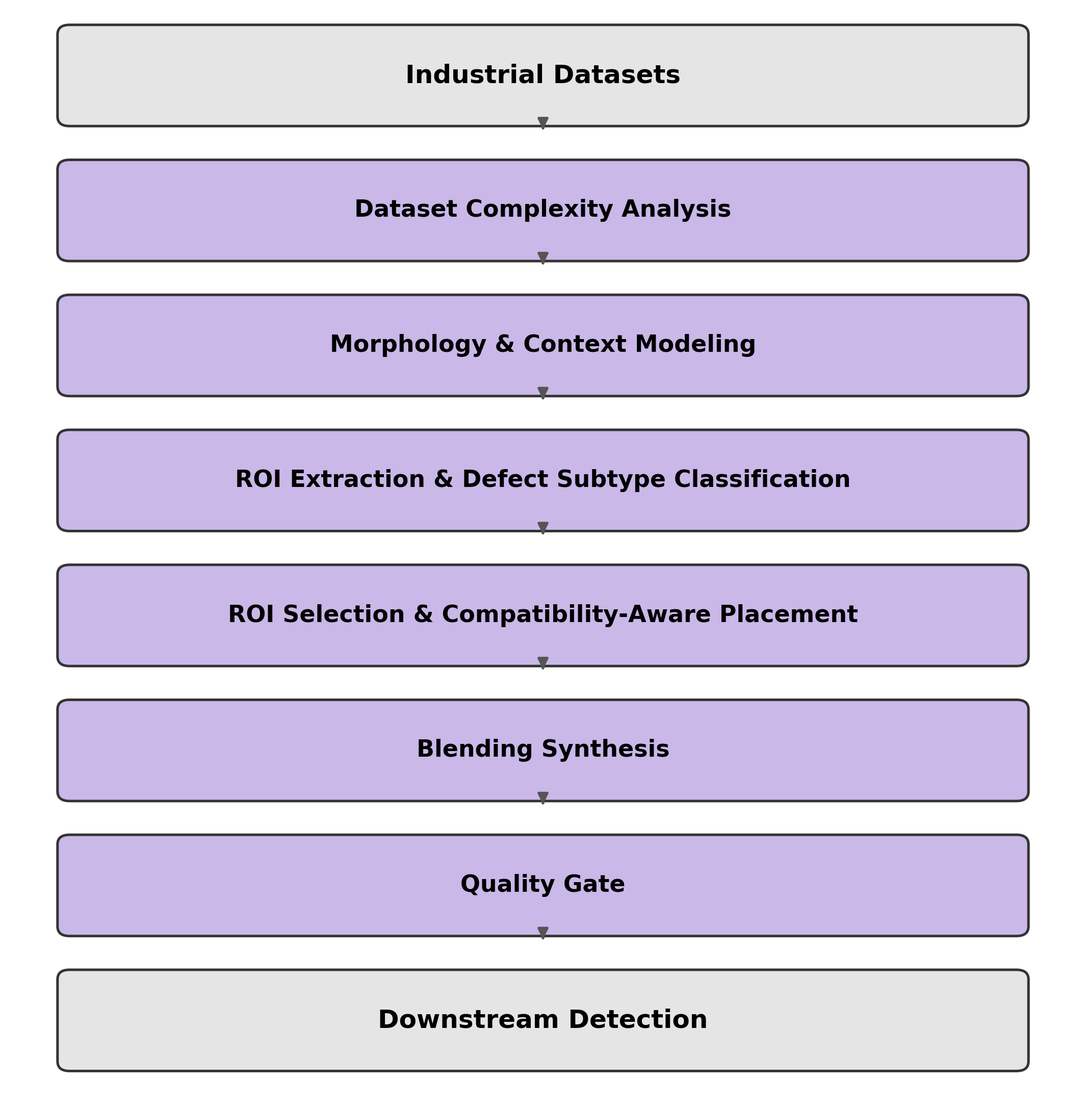
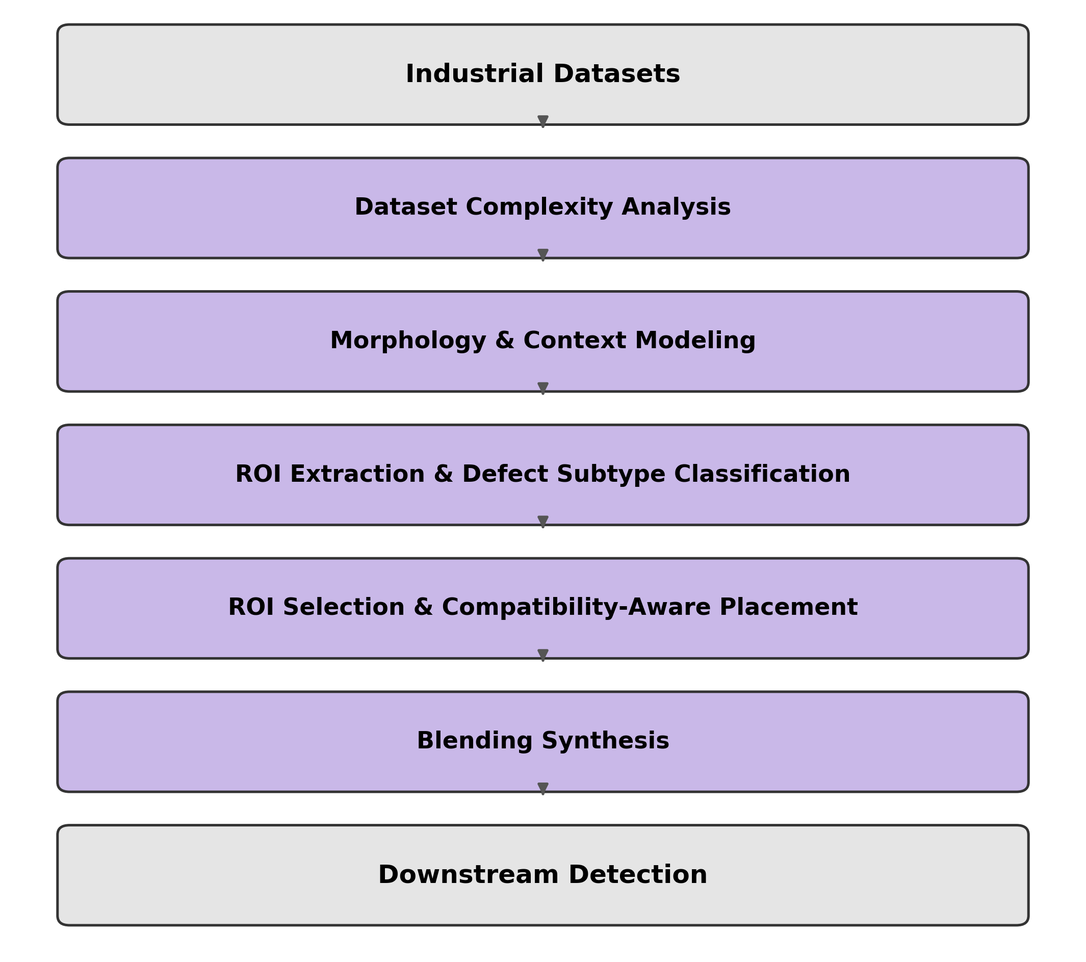
roi score 수치 제거 개선

diff --git a/AROMA연구분석/Article/figure/script/[figure 3.2] aroma_pipeline.py b/AROMA연구분석/Article/figure/script/[figure 3.2] aroma_pipeline.py
@@ -4,7 +4,7 @@ Figure 2 -- AROMA Pipeline Architecture (regenerated)
 
 Static architecture/data-flow diagram (no data file dependency).
 Stage structure aligned 1:1 to the §3.2 subsections of the current
-section3_2.txt (3.2.1 .. 3.2.6); dataset roster from dataset_config.json
+section3_2.txt (3.2.1 .. 3.2.5); dataset roster from dataset_config.json
 (ground truth): 5 datasets (severstal, mvtec_leather, mtd, aitex,
 kolektor).
 
@@ -34,7 +34,8 @@ from matplotlib.patches import FancyBboxPatch
 OUT_DIR = r"D:\project\aroma\AROMA연구분석\Article\figure\image"
 OUT_PATH = os.path.join(OUT_DIR, "[figure 3.2] aroma_pipeline.png")
 
-# title-only -- aligned to §3.2.1-3.2.6 (see pipeline_spec.md for the
+# title-only -- aligned to §3.2.1-3.2.5; Quality Gate stage removed
+# 2026-08-21 with the deletion of §3.2.6 (see pipeline_spec.md for the
 # one-line description of each stage; kept out of the diagram itself)
 STAGES = [
     "Dataset Complexity Analysis",
@@ -42,7 +43,6 @@ STAGES = [
     "ROI Extraction & Defect Subtype Classification",
     "ROI Selection & Compatibility-Aware Placement",
     "Blending Synthesis",
-    "Quality Gate",
 ]
 
 INPUT_TITLE = "Industrial Datasets"

diff --git a/AROMA연구분석/Article/figure/script/[figure 3.2.4 1] roi_selection_flow.py b/AROMA연구분석/Article/figure/script/[figure 3.2.4 1] roi_selection_flow.py
@@ -57,7 +57,7 @@ arrow(4.0, 25.2, 2.5, 24.1)                     # defect -> cluster
 arrow(6.0, 25.2, 7.5, 24.1, color=BLUE)         # defect -> context cell
 
 box(2.4, 19.6, 5.2, 1.7,
-    "ROI_score = 0.6·ctx_prior + 0.4·morph_prior\n= 0.6·1.00 + 0.4·0.24 = 0.70",
+    "ROI_score = ctx_prior + morph_prior\n= 1.00 + 0.24 = 1.24",
     BLUE, "white", fs=9.2)
 arrow(2.5, 22.4, 4.3, 21.3, color=GREY)
 arrow(7.5, 22.4, 5.7, 21.3, color=BLUE)
@@ -94,7 +94,7 @@ arrow(cx, 8.3, cx, 7.4, color=STAR)
 # legend
 ax.text(0.1, 4.6, "blue = compatibility signal read from matrix_symmetric (core placement signal)",
         fontsize=7.8, color=BLUE)
-ax.text(0.1, 4.1, "grey = morphology-cluster prevalence prior (mild weighting)",
+ax.text(0.1, 4.1, "grey = morphology-cluster prevalence prior (population regularizer)",
         fontsize=7.8, color=GREY)
 ax.text(0.1, 3.6, "stage-1 values: real Severstal linear-scratch example; stages 2–3 symbolic",
         fontsize=7.8, color="#444444")

diff --git a/AROMA연구분석/Article/figure/script/[figure 3.2.4 1] roi_selection_flow_mod.py b/AROMA연구분석/Article/figure/script/[figure 3.2.4 1] roi_selection_flow_mod.py
@@ -49,7 +49,7 @@ arrow(6.0, 24.0, 7.5, 22.9, color=BLUE)         # defect -> bg cell
 
 # 3. ROI_score
 box(2.4, 18.4, 5.2, 1.7,
-    "ROI_score(k, c) =\n0.6·ctx_prior(k, c) + 0.4·morph_prior(k)",
+    "ROI_score(k, c) =\nctx_prior(k, c) + morph_prior(k)",
     BLUE, "white", fs=9.2)
 arrow(2.5, 21.2, 4.3, 20.1, color=GREY)         # cluster -> score
 arrow(7.5, 21.2, 5.7, 20.1, color=BLUE)         # bg cell -> score

diff --git a/AROMA연구분석/Article/report1/reviewer3_response.md b/AROMA연구분석/Article/report1/reviewer3_response.md
@@ -14,13 +14,13 @@ We appreciate the opportunity to address this directly, because the two tables t
 
 **(1) The cited Table 4 rule no longer exists.** The fixed cascade quoted by the reviewer ("linear_scratch: Linearity > 0.9 AND AspectRatio > 5") has been replaced: subtype boundaries are now derived per dataset from the observed morphology distributions as tertile boundaries, with the derived values reported in Table 4b. These values vary by up to a factor of 4.5 across the five datasets (aspect-ratio boundary 3.62 on MTD vs. 16.43 on AITeX) — variation that the old fixed rule would have absorbed silently, which is exactly why it was removed. A homogeneity safeguard additionally reverts a feature to a conservative default when its middle tertile is degenerate (below 15% of the feature's standard deviation), so a dataset that is genuinely homogeneous in one feature is not split on measurement noise.
 
-**(2) Percentile rules are not hand-set constants.** A rule such as "LocalVariance ≤ P25" (Table 3) contains no hardcoded threshold: P25 denotes a position in each dataset's own feature distribution, so the operative numerical threshold is recomputed for every dataset and differs across them. What is fixed is only the partition convention (quartiles for background categories, tertiles for context cells and subtypes) — dataset-agnostic machinery, analogous to choosing a histogram binning, not domain knowledge. We verified this convention is not a hidden tuning knob: perturbing the tertile boundary positions by ±5 percentile points changes final ROI selections proportionally and without instability (top-K overlap 64–98% across all perturbations and datasets; new §4.5).
+**(2) Percentile rules are not hand-set constants.** A rule such as "LocalVariance ≤ P25" (Table 3) contains no hardcoded threshold: P25 denotes a position in each dataset's own feature distribution, so the operative numerical threshold is recomputed for every dataset and differs across them. What is fixed is only the partition convention (quartiles for background categories, tertiles for context cells and subtypes) — dataset-agnostic machinery, analogous to choosing a histogram binning, not domain knowledge. We verified this convention is not a hidden tuning knob: perturbing the tertile boundary positions by ±5 percentile points, individually and jointly, relabels only 3.1–14.5% of defects — proportional to the distribution mass moved by the shift, with no instability cliff (new §4.5, Table 12).
 
-**(3) What "data-driven" claims — and what it replaces in CASDA.** CASDA's compatibility matrix encodes domain semantics by hand: an engineer asserts which defect types belong on which background types. AROMA derives exactly this object from patch-level co-occurrence statistics (§3.2.4), and its categorical structure from per-dataset estimation (BIC-selected Gaussian-mixture morphology clusters; tertile context cells). The revised manuscript states the claim at this scope: applying AROMA to a new dataset requires no re-engineering, while the remaining dataset-independent design constants (the scoring weights of Eq. 2) are explicitly acknowledged as fixed choices whose robustness is demonstrated by sensitivity analysis (±0.1 weight perturbations retain 95.5–100% of selections). We have also separated the two roles the submitted version conflated: the named categories of Tables 3–4 serve interpretation and reporting; placement decisions operate on the estimated clusters and cells.
+**(3) What "data-driven" claims — and what it replaces in CASDA.** CASDA's compatibility matrix encodes domain semantics by hand: an engineer asserts which defect types belong on which background types. AROMA derives exactly this object from patch-level co-occurrence statistics (§3.2.4), and its categorical structure from per-dataset estimation (BIC-selected Gaussian-mixture morphology clusters; tertile context cells). The revised manuscript can now state the claim without exception at the placement level: the scoring weights of Eq. (2) — the one remaining hand-set constant pair in the placement path — have been removed (the score is the unweighted sum of two data-derived priors; see our response to Comment 3), so every quantity entering a placement decision is either estimated from the dataset or an unweighted combination of such estimates. We have also separated the two roles the submitted version conflated: the named categories of Tables 3–4 serve interpretation and reporting; placement decisions operate on the estimated clusters and cells.
 
 **(4) Empirical confirmation.** The new ablation study (§4.4) shows the downstream gain is produced by the estimated compatibility chain itself: replacing any stage with its random counterpart drops mAP below even uniform-random augmentation, confirming that the measured benefit comes from the data-derived structure rather than from any fixed constant.
 
-**Manuscript changes:** §3.2.2–3.2.3 (per-dataset percentile derivation, Table 4b, homogeneity safeguard); Eq. (2) fixed-design-choice statement (§3.2.4); new sensitivity subsection (§4.5: boundary perturbation and weight simplex); new ablation study (§4.4); claim-scope wording revised throughout.
+**Manuscript changes:** §3.2.2–3.2.3 (per-dataset percentile derivation, Table 4b, homogeneity safeguard); Eq. (2) rewritten as an unweighted sum (§3.2.4); new sensitivity subsection (§4.5: boundary perturbation); new ablation study (§4.4); claim-scope wording revised throughout.
 
 ---
 
@@ -48,15 +48,15 @@ The reviewer's reading of the submitted numbers was fair, and this comment promp
 
 **Response.**
 
-**(1) The quoted sentence was wrong and has been removed.** The reviewer is right that "the ranking introduces no hand-set constants" contradicted the visible weights. The revised §3.2.4 states the opposite, explicitly: the weights are fixed, dataset-independent design choices encoding a priority order (context > morphology), together with the rationale for that order — the context term is the only one that carries the placement signal and the only one that varies across a crop's candidate contexts, while the cluster prior acts as a population regularizer.
+**(1) The weights have been removed, resolving the contradiction at its source.** The reviewer is right on both counts: the sentence "the ranking introduces no hand-set constants" contradicted the visible 0.6/0.4 weights, and those weights were themselves hand-set. In the revision we removed the weights rather than the claim: Eq. (2) is now the unweighted sum ROI_score = ctx_prior + morph_prior of two data-derived, normalized quantities (a row-normalized compatibility prior and a population-share cluster prior), so the ranking genuinely contains no coefficients. The removal is enabled by the restructured placement pipeline of the revised §3.2.4: the original weighting existed to force the context term to dominate a single composite score, but in the revised three-stage design the compatibility model is consulted directly at every placement stage (ROI selection, background assignment, site resolution), so no priority weighting inside the selection score is needed.
 
-**(2) Empirical justification is now provided — for robustness, not optimality.** We do not claim these weights are optimal, and for a rank-based top-K selection they do not need to be: what must be shown is that the outcome does not hinge on the specific values. The new sensitivity analysis (§4.5, Table 12) sweeps the ctx:morph ratio exhaustively on all five datasets: every ratio from 0.1/0.9 to 0.9/0.1 retains 87.5–100% of the top-K selection — no value in that range is "optimal" because none is consequential. The only consequential change is eliminating a term entirely, and asymmetrically so: a context-only score still retains 83.5–100%, whereas a morphology-only score collapses on Kolektor (37.5% retention) and degrades sharply on MVTec Leather (61.0%), identifying the context term as the load-bearing component. The weights therefore act as a priority ordering over participating terms, not as a tuned optimum. As a scale reference, the ablation of §4.4 shows that even replacing the entire scored selection with a uniform-random one shifts mAP by 3.8 pp; the selection differences induced by alternative weight ratios (0–12.5% of membership) are far smaller in extent.
+**(2) The demand for justification is redirected to what the revised equation actually contains.** With the weights removed, there is no coefficient left whose optimality could or should be proven; what requires justification is the participation of each term. That justification is empirical: the ablation of §4.4 removes the compatibility-based ROI selection and measures a 3.8 pp mAP drop on Severstal, consistent across all three seeds, identifying the context term as the load-bearing component of the ranking, while the cluster prior's role — keeping the selected pool's cluster mix faithful to the real defect population — is structural and carries no tunable freedom.
 
 **(3) Ablation study is now provided.** The new §4.4 ablates the placement pipeline stage by stage (ROI selection, background assignment, site resolution) with downstream mAP as the endpoint: the full pipeline (0.5197) outperforms every leave-one-out variant, and removing the compatibility-based ROI selection causes the largest drop (−3.80 pp, consistent across all three seeds). This complements the sensitivity analysis: the mechanism's presence is what carries the gain; the coefficient values are non-critical.
 
 **(4) Equation (4) has been removed.** We agree these weights were arbitrary in the sense that matters: they were inherited unchanged from our earlier CASDA pipeline rather than derived. In the revision we deleted the quality-gate subsection presenting Eq. (4) — its fixed weights and absolute threshold — instead of defending it. The gate itself is a coarse admissibility pre-filter that discards unusable patches before any placement decision and is applied identically to the AROMA and random arms, so it is common-mode with respect to every comparison in the paper, operates upstream of and independently from the placement scoring of Eq. (2), and is not part of the claimed contribution. No numbered equation followed Eq. (4), so the numbering of Equations (1)–(3) is unchanged.
 
-**Manuscript changes:** offending sentence removed, with a fixed-design-choice statement and priority-order rationale added at Eq. (2) (§3.2.4); new sensitivity subsection (§4.5); new ablation study (§4.4, Table 11); §3.2.6 (Quality Gate, Eq. (4)) removed.
+**Manuscript changes:** Eq. (2) rewritten as the unweighted sum ctx_prior + morph_prior, with rationale, at §3.2.4; new ablation study (§4.4, Table 11); §3.2.6 (Quality Gate, Eq. (4)) removed.
 
 ---
 

diff --git a/AROMA연구분석/Article/report1/reviewer2_response.md b/AROMA연구분석/Article/report1/reviewer2_response.md
@@ -14,13 +14,13 @@ We appreciate the opportunity to clarify the scope of this claim, and we have sh
 
 **(1) What "free of manual tuning" refers to.** The claim concerns the dataset-facing parameters — everything that must adapt when the method is applied to a new dataset. In the revised manuscript, all of these are derived from each dataset's own statistics rather than set by hand: morphology clusters are selected by BIC over a Gaussian mixture, context cells are formed by per-feature tertile (P33/P66) binning, background categories use percentile boundaries (e.g., P25) of the profiled features, and defect-subtype thresholds are derived from the observed per-dataset morphology distributions (Table 4b), varying by up to a factor of 4.5 across datasets. None of these involve manual tuning: applying AROMA to a new dataset re-derives them automatically, with no re-engineering.
 
-**(2) The weights in Equation (2) are dataset-independent structural coefficients, not tuning parameters.** They are set once, encode a fixed priority order (context > morphology), and are applied unchanged to all five datasets — no per-dataset adjustment exists anywhere in the pipeline. To verify that these coefficients do not function as hidden tuning knobs, we added a weight-ratio sensitivity analysis on all five datasets (new §4.5): every ctx:morph ratio from 0.1/0.9 to 0.9/0.1 retains 87.5–100% of the top-K selection, and the only consequential change is eliminating a term entirely (a morphology-only score falls to 37.5% retention on Kolektor). The ranking therefore depends on which terms participate, not on the specific coefficient values — the opposite of a manually tuned optimum. As a scale reference, the ablation of §4.4 shows that even replacing the entire scored selection with a uniform-random one shifts mAP by 3.8 pp; the selection differences induced by alternative weight ratios (0–12.5% of membership) are far smaller in extent.
+**(2) The weights in Equation (2) have been removed.** The reviewer is right that the 0.6/0.4 coefficients were hand-set constants, and rather than defending them we eliminated them: in the revised manuscript, Eq. (2) is the unweighted sum ROI_score = ctx_prior + morph_prior of two data-derived, normalized quantities, so the ranking no longer contains any coefficient of its own. This removal is enabled by the restructured placement pipeline of §3.2.4: the original weighting existed to force the context term to dominate a single composite score, but in the revised three-stage design the compatibility model is consulted directly at all three placement stages (ROI selection, background assignment, site resolution), so the context signal no longer needs to be privileged inside the selection score. What remains to be justified is not a coefficient value but the participation of each term, and that is established empirically by the ablation of §4.4: removing the compatibility-based ROI selection costs 3.8 pp of mAP on Severstal, consistently across seeds, identifying the context term as the load-bearing component of the ranking.
 
 **(3) Equation (4) has been removed, and the quality criterion is disclosed as inherited.** In revising the quality-gating description we deleted the subsection that presented Eq. (4) — its fixed component weights and absolute acceptance threshold — rather than defending it. The underlying gate is a coarse admissibility pre-filter inherited unchanged from our earlier CASDA pipeline; it discards unusable patches *before* any placement decision and is applied identically to the AROMA and random arms, so it is common-mode with respect to every comparison in the paper, operates upstream of and independently from the placement scoring of Eq. (2), and is not part of the claimed data-driven contribution. No numbered equation followed Eq. (4), so the numbering of Equations (1)–(3) is unchanged.
 
-The revised text (§3.2.2–3.2.4) now states this distinction explicitly: per-dataset parameters are data-derived, while the Eq. (2) weights are fixed, dataset-independent design constants whose robustness is demonstrated empirically.
+The revised text (§3.2.2–3.2.4) now makes the claim exact: every quantity entering the placement decision is either derived from the dataset's own statistics or an unweighted combination of such quantities; the manually set coefficients the reviewer identified (Eq. (2) weights, Eq. (4) weights) have both been removed from the method.
 
-**Manuscript changes:** explicit fixed-design-choice statement and priority-order rationale at Eq. (2) (§3.2.4); §3.2.6 (Quality Gate, Eq. (4)) removed; new sensitivity subsection (§4.5); data-derived partition descriptions in §3.2.2–3.2.3.
+**Manuscript changes:** Eq. (2) rewritten as the unweighted sum ctx_prior + morph_prior, with the rationale at §3.2.4; §3.2.6 (Quality Gate, Eq. (4)) removed; new sensitivity subsection (§4.5); data-derived partition descriptions in §3.2.2–3.2.3.
 
 ---
 
@@ -30,13 +30,13 @@ The revised text (§3.2.2–3.2.4) now states this distinction explicitly: per-d
 
 **Response.**
 
-Following this recommendation, we supplemented the evaluation with **YOLOv11n**, a recent mainstream detector, under the identical three-arm (Baseline / Random / AROMA), three-seed protocol on Severstal and AITeX — the heterogeneous-surface datasets where the placement effect is the operative question (new Table X, §X).
+Following this recommendation, we supplemented the evaluation with **YOLOv11n**, a recent mainstream detector, under the identical three-arm (Baseline / Random / AROMA), three-seed protocol on Severstal and AITeX — the heterogeneous-surface datasets where the placement effect is the operative question (new Tables 13–14, §4.3).
 
-The results reproduce the ordering observed with YOLOv8n: **[AROMA > Random > Baseline on both datasets; numbers TBD after E4]**. This indicates that the measured placement effect is a property of the synthesized data rather than of a particular detector architecture.
+The results reproduce the ordering observed with YOLOv8n: on Severstal, AROMA 0.5080 > Random 0.4932 > Baseline 0.4864 mAP@0.5, with AROMA outperforming Random in all three seeds and the gain again concentrated in the minority classes (c2 +2.10 pp, c4 +4.81 pp vs. Random); on AITeX, both augmentation arms clearly exceed Baseline (AROMA 0.4064, Random 0.3967 vs. Baseline 0.3637). This indicates that the measured placement effect is a property of the synthesized data rather than of a particular detector architecture.
 
 Two considerations guided the scope of this supplement. First, the paper's claim is about the *data-side* placement policy, and the detector is only the measurement instrument; demonstrating that the effect survives a change of instrument on two representative datasets addresses the generality question directly. Second, YOLOv8n is retained as the primary detector throughout the paper for comparability with prior industrial augmentation studies and with our earlier controlled experiments, which were all conducted under that architecture.
 
-**Manuscript changes:** new detector-generality table and subsection (numbers to be inserted after the supplementary YOLOv11n runs; placeholder pending E4).
+**Manuscript changes:** new detector-generality table and subsection (§4.3, Tables 13–14, "Cross-architecture validation (YOLO11n)").
 
 ---
 
@@ -52,9 +52,9 @@ We address this in three parts.
 
 **(2) Subtype labels do not gate placement.** The revised §3.2.2–3.2.4 separates the two roles that were conflated in the original text: placement decisions operate on the BIC-selected morphology clusters and tertile context cells, and the ROI ranking of Eq. (2) does not consume the subtype labels; the named categories serve interpretation and reporting. A perturbation of a subtype boundary therefore cannot alter which placements are generated.
 
-**(3) Threshold sensitivity analysis (new §4.5).** We nevertheless quantified the stability of the labels themselves: perturbing the percentile points defining the tertile boundaries by ±5 points (P33/P66 → 28–38 / 61–71) on all five datasets relabels 3.1–9.1% of defects for a single-boundary shift and 7.7–14.5% for a joint shift (Table 13) — in each case proportional to the distribution mass moved by the shift, with no amplification or instability cliff.
+**(3) Threshold sensitivity analysis (new §4.5).** We nevertheless quantified the stability of the labels themselves: perturbing the percentile points defining the tertile boundaries by ±5 points (P33/P66 → 28–38 / 61–71) on all five datasets relabels 3.1–9.1% of defects for a single-boundary shift and 7.7–14.5% for a joint shift (Table 12) — in each case proportional to the distribution mass moved by the shift, with no amplification or instability cliff.
 
-**Manuscript changes:** §3.2.3 (per-dataset percentile boundaries, Table 4b); new sensitivity subsection (§4.5) reporting the boundary-perturbation results alongside the weight-ratio analysis.
+**Manuscript changes:** §3.2.3 (per-dataset percentile boundaries, Table 4b); new sensitivity subsection (§4.5, Table 12) reporting the boundary-perturbation results.
 
 ---
 

diff --git a/.claude/.dev_note/aroma_report1_responses_20260821.md b/.claude/.dev_note/aroma_report1_responses_20260821.md
@@ -2,7 +2,16 @@
 
 ## (성격: 세션 기록 · **완료분 + 잔여 작업 목록**. 답변서는 완성, 실험 E4·figure·재정렬은 미착수)
 
-> **⚠ 최종 결정 A안 (2026-08-21 세션 말미) — Eq.2는 2-항 표기 유지**: 세션 중 Eq.2를 3-성분(0.5/0.3/0.2)으로 전환했다가 **최종적으로 제출본 2-항(0.6·ctx + 0.4·morph) 표기로 회귀** (사용자 결정: 수식 단순화 취지 유지, 수식 변경 가시성 리스크 회피). 이에 따라:
+> **🔴 최종 번복 B안 (2026-08-21 후속 세션) — 아래 A안을 대체. Eq.2 = 무가중 합, §4.5 sweep 제거**
+> R2-1·R3-3 공통 지적(0.6/0.4 hand-set constants)에 대해 **가중치 자체를 제거**하는 것으로 최종 결정:
+> - **Eq.2 = `ROI_score = ctx_prior + morph_prior` (상수항 없음)**. 논리: §3.2.4 3단계 재편으로 compat model이 선택·배경할당·위치해상 모두에서 직접 소비되므로 선택 점수 내 priority weighting 불필요. §3.2.4 정당화 문단 재작성(항 필요성은 §4.4 ablation 인용).
+> - **§4.5 가중치 sweep(구 Table 12) 통째 제거** — 방어할 상수가 없어 존재 이유 소멸. §4.5는 "Sensitivity of the Tertile Partition Boundaries"로 개제, tertile 섭동 표가 **Table 12** 승계. (아래 2b의 sweep 실측은 재심 대비 예비 데이터로 보존)
+> - **E4 완료 및 반영**: YOLO11n 3-seed 결과(`.claude/.etc/exp4v2/20260821/yolo11/exp4v2_results_{1,2,42}.json`, casda arm은 오수행으로 제외) → §4.3 말미 "Cross-architecture validation (YOLO11n)" 소절 신설. **Table 13**(Severstal, Table 8 형식 per-class) + **Table 14**(AITeX, Table 6 형식 mAP@0.5 단일 열). Severstal AROMA 3-seed 전승(+1.48pp, c2/c4 집중), AITeX comparable(+0.97pp, seed 분산 이내). R2-2 placeholder 실수치로 채움.
+> - 답변서 3건 모두 동기화: R1-1(2) "가중치 제거+tertile 민감도", R2-1(2)·R3-3(1,2) "removed rather than defended", R3-1(2) 인용 수치를 §4.5 실제 수치(3.1–14.5% relabel)로 정정.
+> - **잔존 리스크 갱신**: 논문 무가중 vs production 코드 0.5/0.3/0.2 불일치는 여전(형태는 다르나 동일 지뢰). sweep 실측("값 비민감·항 참여 민감")이 완화 근거로 유효.
+> - **잔여**: figure `[figure 3.2.4 1] roi_selection_flow*.py`(0.6/0.4 하드코딩) 수정·재생성, `[figure 4.5 1] weight_simplex*` retired 처리, section3_2_4_eng/kor.md 초안·AROMA.txt 조립본 미반영, SOP "0.6/0.4 유지 결정" 기록 갱신.
+>
+> **⚠ (구) 최종 결정 A안 (2026-08-21 세션 말미, 위 B안으로 대체됨) — Eq.2는 2-항 표기 유지**: 세션 중 Eq.2를 3-성분(0.5/0.3/0.2)으로 전환했다가 **최종적으로 제출본 2-항(0.6·ctx + 0.4·morph) 표기로 회귀** (사용자 결정: 수식 단순화 취지 유지, 수식 변경 가시성 리스크 회피). 이에 따라:
 > - §3.2.4 Eq.2 = 0.6/0.4 + fixed-design·priority-order(context>morphology) 이론 근거 (quality 서술 제거)
 > - §4.5 = **2-항 비율 sweep** (`sensitivity_0604_results.json` 기준: 비율 0.1/0.9~0.9/0.1 → 87.5–100%, ctx-only 83.5–100%, morph-only kolektor 37.5% 붕괴), Table 13 = subtype 라벨 안정성만(재배정률; retention 열 제거 — 2-항 세계에선 Eq.2가 subtype 미소비)
 > - 답변서 3건에서 "three-component 정정" 주장 전부 소거, 비율-inoperative 논증으로 대체
@@ -83,11 +92,11 @@ Applied Sciences 1차 심사(Reviewer 1/2/3, Major Revision) 19개 항목에 대
 
 ## 6. 잔여 작업
 
-1. **E4 Colab 실행** → `reviewer2_response.md` R2-2의 placeholder 2곳(`[numbers TBD after E4]`, `new Table X, §X`) 채우기 + 원고 detector-generality 소절 신설
+1. ~~**E4 Colab 실행** → placeholder 채우기 + detector-generality 소절 신설~~ **완료 (B안 배너 참조)** — §4.3 Tables 13–14, R2-2 실수치 반영. 단, YOLO11 casda arm `no_synth_annotations` 오류는 원인 미수정(비교군에서 제외로 종결)
 2. **Figure**: 전면 재생성(R3-4 legibility 7–8pt)만 잔여. **Figure 4.5-1도 미채택(2026-08-21)** — §4.5는 Table 12 참조로 종결(0.6/0.4/0.0 행이 가중치 영향 전달), 생성본은 figure/_retired/ 보존. **Figure 3.2.4-3은 삭제 확정(2026-08-21)** — 근거: 구판은 row-normalized matrix_symmetric로 후보를 합성했으나 production 후보 ctx_prior는 raw 스케일(≈0.08대)이라 "ctx=1 saturation·compatibility dominates" 시각 서사가 채점 실체와 불일치 위험(코드 공개 시 대조 공격 표면), 실후보 재렌더는 top-N 동률 퇴화. 본문 해당 문단·캡션 삭제, 스크립트·png는 figure/_retired/ 이동. **Figure 3.2.4-4/-5 번호 재정렬 안 함** (조판 전역 재번호 전제, 작업 라벨 gap 유지 — F1에서 확인)
 3. **keywords 교체** (제출 시스템): R2-6 확정 8개 — industrial visual inspection; defect detection; data augmentation; copy-paste synthesis; context-aware placement; defect–background compatibility; dataset complexity index; YOLOv8
 4. **Reference 등장순 재정렬** [36]–[46] + 본문 번호 갱신 (section2/3_2/3_3/5/AROMA.txt)
-5. **F1 최종 검수**: Abstract–§6 정합 감사 + 삼중 대조. 확인 포인트 — Eq.2 3-성분 전파, §4 도입부의 §4.4/4.5 안내, **Eq.4 삭제 후 수식 번호**(답변서가 "Eq.(1)–(3) 불변, Eq.(4) 뒤 번호 수식 없음"이라 단정 — 조판본에서 실제 번호 매김 확인 필수), RealNet DOI 확정, AROMA.txt(조립본)에 §3.2.6 잔존 — 재조립 시 text/ 정본 반영
+5. **F1 최종 검수**: Abstract–§6 정합 감사 + 삼중 대조. 확인 포인트 — **Eq.2 무가중 표기 전파(B안)** + 표 번호 최종 확인(§4.4 T11 → §4.5 T12 → §4.3 말미 T13–14), §4 도입부의 §4.4/4.5 안내, **Eq.4 삭제 후 수식 번호**(답변서가 "Eq.(1)–(3) 불변, Eq.(4) 뒤 번호 수식 없음"이라 단정 — 조판본에서 실제 번호 매김 확인 필수), RealNet DOI 확정, AROMA.txt(조립본)에 §3.2.6 잔존 — 재조립 시 text/ 정본 반영
 
 ## 7. 관련 파일
 

diff --git a/AROMA연구분석/Article/figure/script/[figure 3.2] pipeline_spec.md b/AROMA연구분석/Article/figure/script/[figure 3.2] pipeline_spec.md
@@ -2,9 +2,11 @@
 
 ## 목적 (연결 section)
 
-§3.2 opening (현재 `section3_2.txt` 실제 문장): "The AROMA pipeline progresses from dataset profiling and complexity analysis to defect synthesis and quality control."
+§3.2 opening (현재 `section3_2.txt` 실제 문장): "The AROMA pipeline progresses from dataset profiling and complexity analysis to defect synthesis."
 
-파이프라인의 입력(**5종** 산업 데이터셋) → 출력(YOLOv8n 다운스트림 검출)까지의 **data flow**를 시각화한다. 다이어그램의 스테이지 박스는 현행 §3.2의 **6개** 하위절(3.2.1~3.2.6)에 **1:1 정렬**한다. 데이터셋 로스터는 `dataset_config.json`(정본), 생성 엔진은 **copy-paste**(ControlNet 아님)를 정본으로 한다.
+파이프라인의 입력(**5종** 산업 데이터셋) → 출력(YOLOv8n 다운스트림 검출)까지의 **data flow**를 시각화한다. 다이어그램의 스테이지 박스는 현행 §3.2의 **5개** 하위절(3.2.1~3.2.5)에 **1:1 정렬**한다.
+
+> 🔴 **정렬 갱신(2026-08-21)** — §3.2.6(Quality Gate) 본문 삭제(T4)에 따라 **Quality Gate 스테이지 박스 제거**(6→5 스테이지). Eq.2 상수항 제거에 따라 stage 4 수식을 **무가중 합**으로 갱신: `ROI_score = ctx_prior + morph_prior`. 아래 2026-07-27 노트의 6-하위절·Quality Gate 서술은 구판 이력. 데이터셋 로스터는 `dataset_config.json`(정본), 생성 엔진은 **copy-paste**(ControlNet 아님)를 정본으로 한다.
 
 > ⚠ **정렬 갱신(2026-07-27, 사용자 확인)**
 > 1. **§ 번호 재정렬**: 구 spec은 §3.2.3(ROI Extraction)·§3.2.4(Seed Defect Classification)를 분리했으나, 실제 `section3_2.txt`는 이 둘을 **§3.2.3 하나로 병합**(Background Categories and Defect Subtypes). 이후 ROI Selection→**§3.2.4**, Blending Synthesis→**§3.2.5**, Quality Gate→**§3.2.6**으로 한 칸씩 당겨짐(§3.2.7 없음, 총 **6개** 하위절).
@@ -18,16 +20,15 @@
 
 **재생성 완료** (`[figure 3.2] aroma_pipeline.py`, 2026-07-27 — §3.2 6-하위절 정렬 + matrix_symmetric 용어 통일 + Quality Gate 내용 정정 + 라벨 제목-only 단순화 반영).
 
-## 다이어그램 스테이지 (§3.2.1~3.2.6 정렬)
+## 다이어그램 스테이지 (§3.2.1~3.2.5 정렬)
 
 | # | §    | 박스 제목 | 한 줄 설명 (spec·본문 참고용 — 다이어그램 라벨에는 미표시) |
 |---|------|-----------|-----------|
 | 1 | 3.2.1 | Dataset Complexity Analysis | MCI / CCI from patch profiling |
 | 2 | 3.2.2 | Morphology & Context Modeling | Data-driven clusters (GMM+BIC) + tertile context cells |
 | 3 | 3.2.3 | ROI Extraction & Defect Subtype Classification | Otsu + connected-components ROI extraction; SAM seed masks → 5 morphology subtypes |
-| 4 | 3.2.4 | ROI Selection & Compatibility-Aware Placement | ROI_score = 0.6·ctx_prior + 0.4·morph_prior; symmetric compatibility gate (matrix_symmetric) |
+| 4 | 3.2.4 | ROI Selection & Compatibility-Aware Placement | ROI_score = ctx_prior + morph_prior (unweighted); symmetric compatibility gate (matrix_symmetric) |
 | 5 | 3.2.5 | Blending Synthesis | Same blend operator for AROMA and Random arms; mask + bbox co-saved |
-| 6 | 3.2.6 | Quality Gate | Background-patch quality gate (blur/contrast/brightness/noise), accept iff quality ≥ 0.7 |
 
 - **입력**: 데이터셋 **5종** — `severstal` · `mvtec_leather` · `mtd` · `aitex` · `kolektor`
 - **출력**: YOLOv8n 지도학습 검출 헤드라인(baseline / random / aroma 3조건)
@@ -46,7 +47,7 @@
 
 ## Caption 작성
 
-**Figure 2.** AROMA pipeline architecture and data flow, aligned to §3.2. Inputs are the five industrial datasets (severstal, mvtec_leather, mtd, aitex, kolektor). The pipeline profiles dataset complexity (MCI, CCI; §3.2.1), builds data-driven morphology clusters and context cells (§3.2.2), extracts candidate ROIs and classifies seed defects into morphology subtypes (§3.2.3), and ranks defect–context pairs by ROI_score = 0.6·ctx_prior + 0.4·morph_prior under a symmetric compatibility gate (matrix_symmetric) with offline clean-background assignment (§3.2.4). The selected crops are composited by the same blend operator for the AROMA and random arms (§3.2.5), and a background-patch quality gate (blur, contrast, brightness, and noise; accept iff quality ≥ 0.7) admits usable clean backgrounds and rejects flat/void foreground regions (§3.2.6) before the synthesized samples feed the downstream detector.
+**Figure 2.** AROMA pipeline architecture and data flow, aligned to §3.2. Inputs are the five industrial datasets (severstal, mvtec_leather, mtd, aitex, kolektor). The pipeline profiles dataset complexity (MCI, CCI; §3.2.1), builds data-driven morphology clusters and context cells (§3.2.2), extracts candidate ROIs and classifies seed defects into morphology subtypes (§3.2.3), and ranks defect–context pairs by ROI_score = ctx_prior + morph_prior under a symmetric compatibility gate (matrix_symmetric) with offline clean-background assignment (§3.2.4). The selected crops are composited by the same blend operator for the AROMA and random arms (§3.2.5) before the synthesized samples feed the downstream detector.
 
 ---
 

diff --git a/AROMA연구분석/Article/report1/reviewer1_response.md b/AROMA연구분석/Article/report1/reviewer1_response.md
@@ -14,13 +14,13 @@ We thank the reviewer for this important point, and we have addressed it with bo
 
 **(1) Learning-based parameter determination (revised §3.2.2–3.2.3).** The parameters that define AROMA's categorical structure are estimated from each dataset's own statistics rather than hand-set: morphology clusters are obtained by a Gaussian mixture whose cluster count is selected per dataset by the Bayesian Information Criterion; background context cells are formed by per-feature tertile (P33/P66) binning of the profiled context features; and the subtype thresholds are derived per dataset from the observed morphology distributions (Table 4b), varying by up to a factor of 4.5 across datasets — variation that any fixed constant would silently absorb.
 
-**(2) Systematic sensitivity analysis (new §4.5).** For the remaining fixed design choices — the ROI-scoring weights — we swept the ctx:morph weight ratio exhaustively on all five datasets. Every ratio from 0.1/0.9 to 0.9/0.1 retains 87.5–100% of the top-K ROI selection, while removing the context term entirely causes substantial divergence (retention falls to 37.5% on Kolektor). The exact weight values therefore do not dominate the outcome; what matters is the participation and priority of the context-compatibility term.
+**(2) Elimination of the remaining manual parameters, and sensitivity analysis of what is left (new §4.5).** The ROI-scoring weights of Eq. (2) — the manually set parameters most directly at issue — have been removed: the revised score is the unweighted sum of two data-derived, normalized priors, so the placement path no longer contains coefficients that could dominate the outcome. The one dataset-independent convention that remains is the tertile partition positions (P33/P66), and for these we provide a systematic sensitivity analysis (§4.5, Table 12): perturbing the boundaries by ±5 percentile points, individually and jointly, relabels only 3.1–14.5% of defects — proportional to the distribution mass moved, with no instability — and cannot alter placements, which do not consume the labels.
 
 **(3) Ablation study (new §4.4).** A leave-one-out ablation over the three placement stages shows that the full pipeline (0.5197 mAP@0.5) outperforms every partial variant, and that disabling any single stage drops performance below even uniform-random augmentation. The measured gains are thus a property of the integrated pipeline design, not of any individually tuned constant.
 
-In addition, we have narrowed the scope of the "data-driven" claim throughout the manuscript: it now refers specifically to the derivation of the defect–background compatibility model, while the scoring-weight values are explicitly acknowledged as fixed design choices whose robustness is demonstrated by the sensitivity analysis above.
+In addition, we have made the scope of the "data-driven" claim exact throughout the manuscript: every quantity entering a placement decision is either estimated from the dataset's own statistics or an unweighted combination of such estimates, with no hand-set coefficients remaining in the placement path.
 
-**Manuscript changes:** revised §3.2.2–3.2.3 (data-driven partitions, Table 4b); fixed-design-choice statement and priority-order rationale at Eq. (2) in §3.2.4; new sensitivity subsection (§4.5); new ablation study (§4.4, Table 11).
+**Manuscript changes:** revised §3.2.2–3.2.3 (data-driven partitions, Table 4b); Eq. (2) rewritten as the unweighted sum ctx_prior + morph_prior (§3.2.4); new sensitivity subsection (§4.5, Table 12); new ablation study (§4.4, Table 11).
 
 ---
 

diff --git a/AROMA연구분석/Article/figure/script/[figure 3.2.4 1] roi_selection_flow.md b/AROMA연구분석/Article/figure/script/[figure 3.2.4 1] roi_selection_flow.md
@@ -17,7 +17,7 @@
   - morphology_features: `class1_00ac8372f` → linearity 0.961 / solidity 0.882 / AR 5.09
   - morphology_clusters: cluster k=1, morph_prior P(k) = 0.24 (859/3620)
   - compatibility_matrix.json: `matrix_symmetric["1"]` peak cell `0_0_0_1_0` = 1.00
-  - ROI_score = 0.6·1.00 + 0.4·0.24 = 0.70
+  - ROI_score = 1.00 + 0.24 = 1.24 (무가중 합 — 2026-08-21 Eq.2 상수항 제거 반영)
 - stage 2–3은 기호만 (특정 표본 수치 미표기 — 세대 혼입 방지)
 
 ## 구성 (세로, 스테이지 라벨 이탤릭)
@@ -26,7 +26,7 @@
 1. defect crop selection
    Defect crop (lin/sol/AR) ─┬→ [회색] GMM cluster k=1, P(k)=0.24
                              └→ [파랑] source context cell, ctx_prior=1.00
-   → ROI_score = 0.6·ctx + 0.4·morph = 0.70
+   → ROI_score = ctx + morph = 1.24
    → Rank all → keep Top-K sources
 2. background assignment
    [파랑] bg_score = src_fit + class_fit + size_fit → Assign highest-scoring normal image

diff --git a/AROMA연구분석/Article/figure/script/[figure 3.2.4 1] roi_selection_flow_mod.md b/AROMA연구분석/Article/figure/script/[figure 3.2.4 1] roi_selection_flow_mod.md
@@ -9,7 +9,7 @@ Severstal linear-scratch 실측 수치를 박스에 병기했으나, 본 `_mod` 
 1. Defect crop — morphology features (linearity, solidity, aspect ratio)
    - 좌분기: GMM → morphology cluster k, morph_prior P(k)
 2. Candidate background patch → context cell c, ctx_prior(k, c) = matrix_symmetric(k, c)
-3. ROI_score(k, c) = 0.6·ctx_prior(k, c) + 0.4·morph_prior(k)
+3. ROI_score(k, c) = ctx_prior(k, c) + morph_prior(k)
 4. Rank all candidates, take Top-K
 5. Clean-bg assignment
 6. Compat gate: 64px tiling scan–rank–place, accept if best_mean ≥ τ
